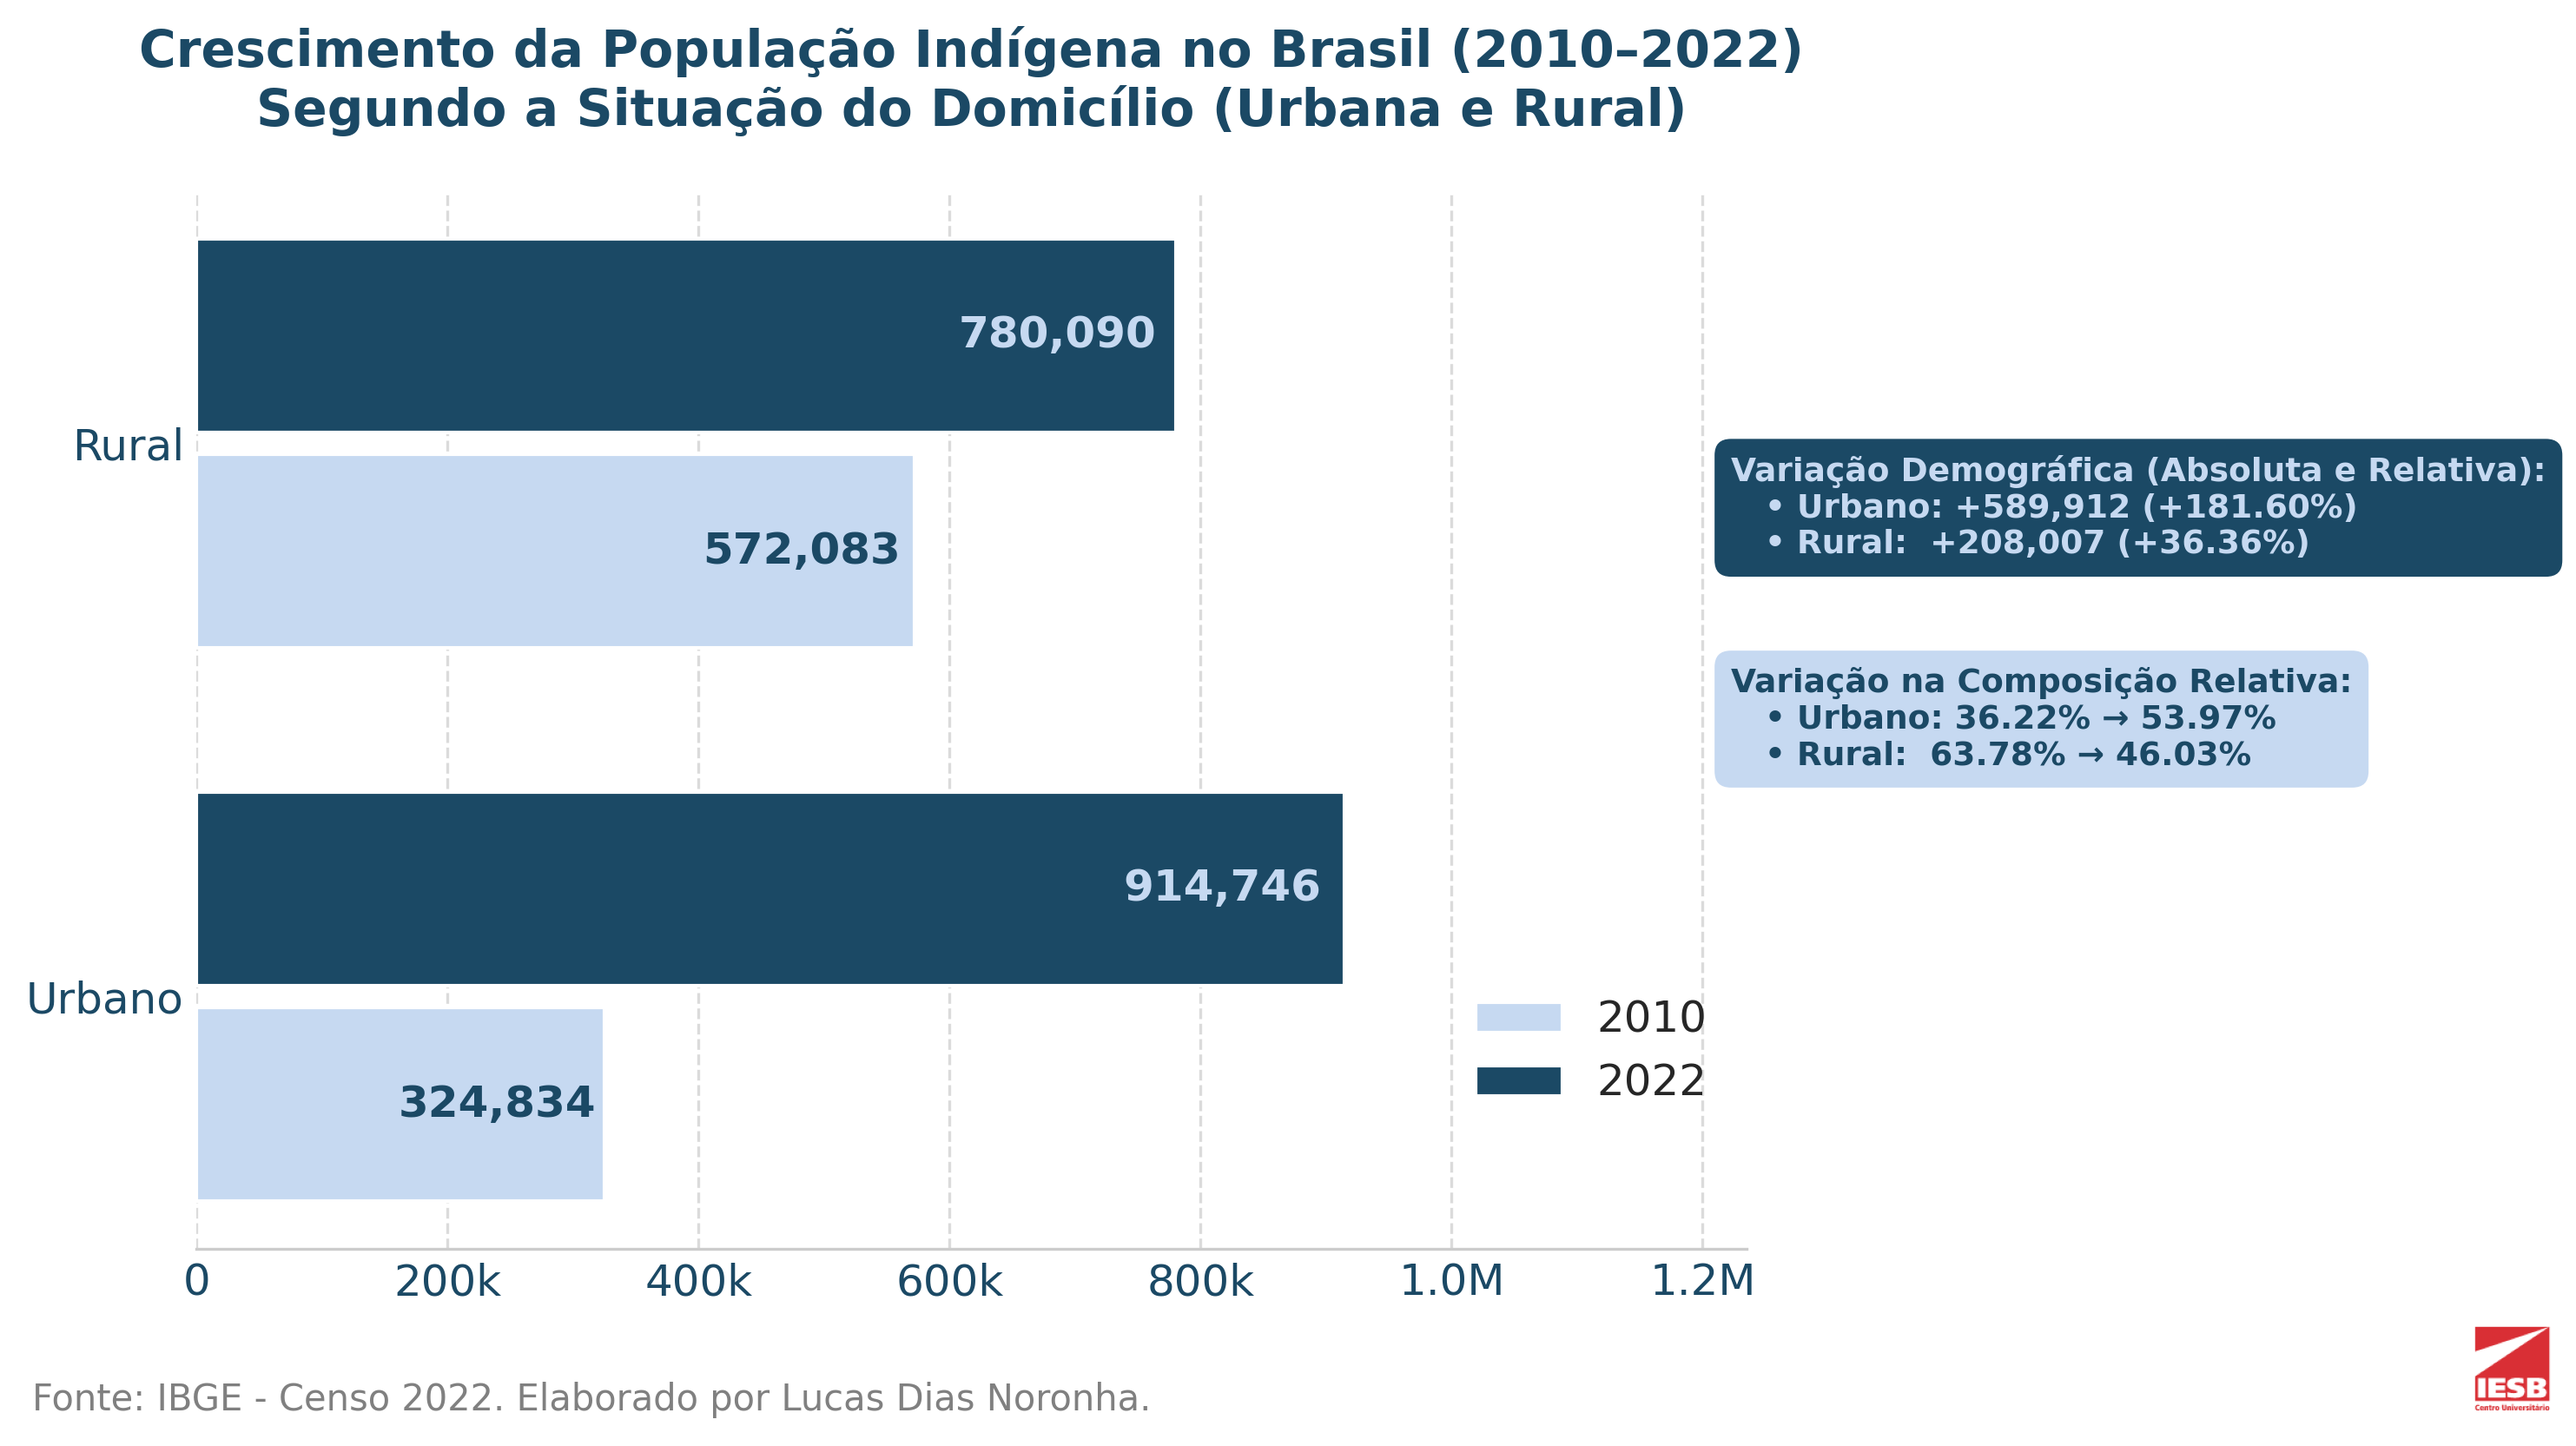
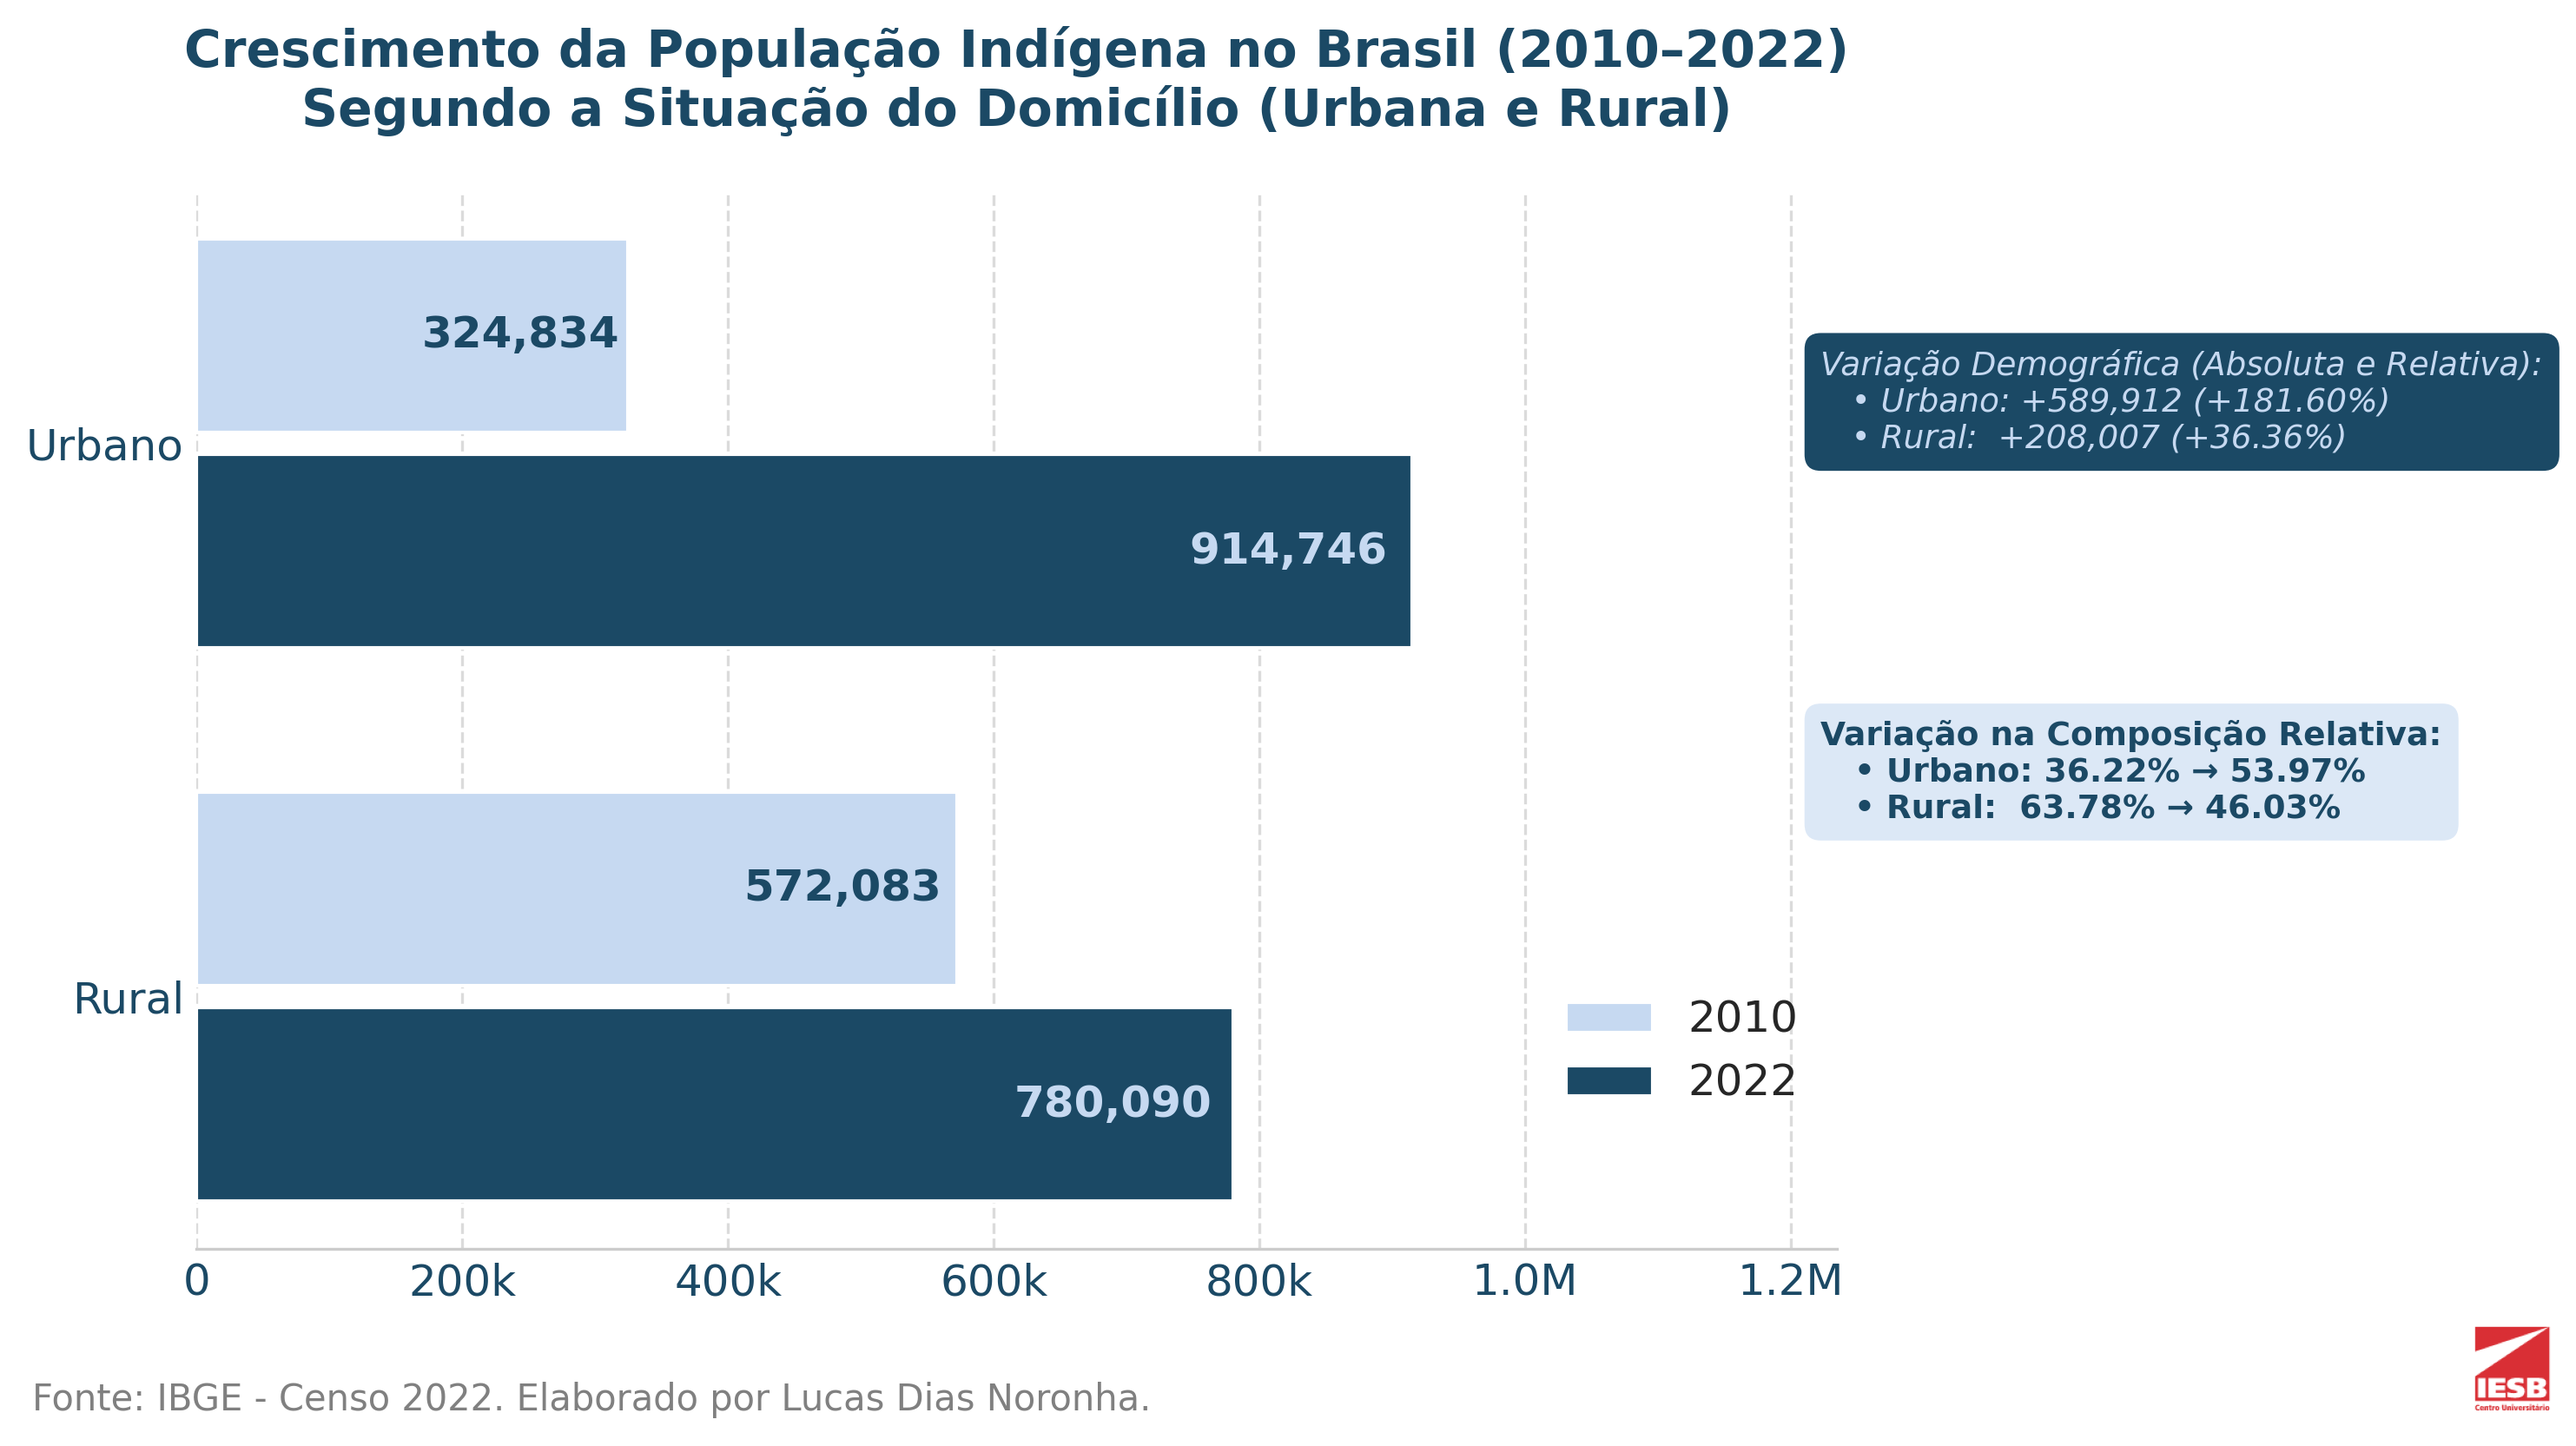
Update

diff --git a/src/visualization/bar.py b/src/visualization/bar.py
@@ -144,6 +144,7 @@ class PlotBar:
 
             ax.set_yticks(y_pos)
             ax.set_yticklabels(categorias)
+            ax.invert_yaxis()
  
             ax.set_title(
                 f'Crescimento da População Indígena no {localidade} (2010–2022)\n'
@@ -173,10 +174,10 @@ class PlotBar:
                 f"   • Rural:  {int(diferenca_rural.iloc[0]):+,.0f} ({float(crescimento_pct_rural.iloc[0]):+.2f}%)"
             )
 
-            ax.text(0.99, 0.75, texto_resumo_1, transform=ax.transAxes, # Ajuste na posição X e Y
-                    fontsize=9, ha='left', va='top', color=self.cor[0], fontweight='bold',
+            ax.text(0.99, 0.85, texto_resumo_1, transform=ax.transAxes, # Ajuste na posição X e Y
+                    fontsize=9, ha='left', va='top', color=self.cor[0], fontstyle='italic',
                     bbox=dict(boxstyle='round,pad=0.5',
-                            facecolor=self.cor[1], edgecolor='none'))
+                            facecolor=self.cor[1],alpha=0.999, edgecolor='none'))
 
             texto_resumo_2 = (
                 "Variação na Composição Relativa:\n"
@@ -184,10 +185,10 @@ class PlotBar:
                 f"   • Rural:  {float(percentual_rural_2010.iloc[0]):.2f}% → {float(percentual_rural_2022.iloc[0]):.2f}%"
             )
 
-            ax.text(0.99, 0.55, texto_resumo_2, transform=ax.transAxes, # Ajuste na posição X e Y
+            ax.text(0.99, 0.50, texto_resumo_2, transform=ax.transAxes, # Ajuste na posição X e Y
                     fontsize=9, ha='left', va='top', color=self.cor[1], fontweight='bold',
                     bbox=dict(boxstyle='round,pad=0.5',
-                            facecolor=self.cor[0], edgecolor='none'))
+                            facecolor=self.cor[0], alpha=0.6, edgecolor='none'))
 
             self._adicionar_fonte()
             self._adicionar_logo(fig)
